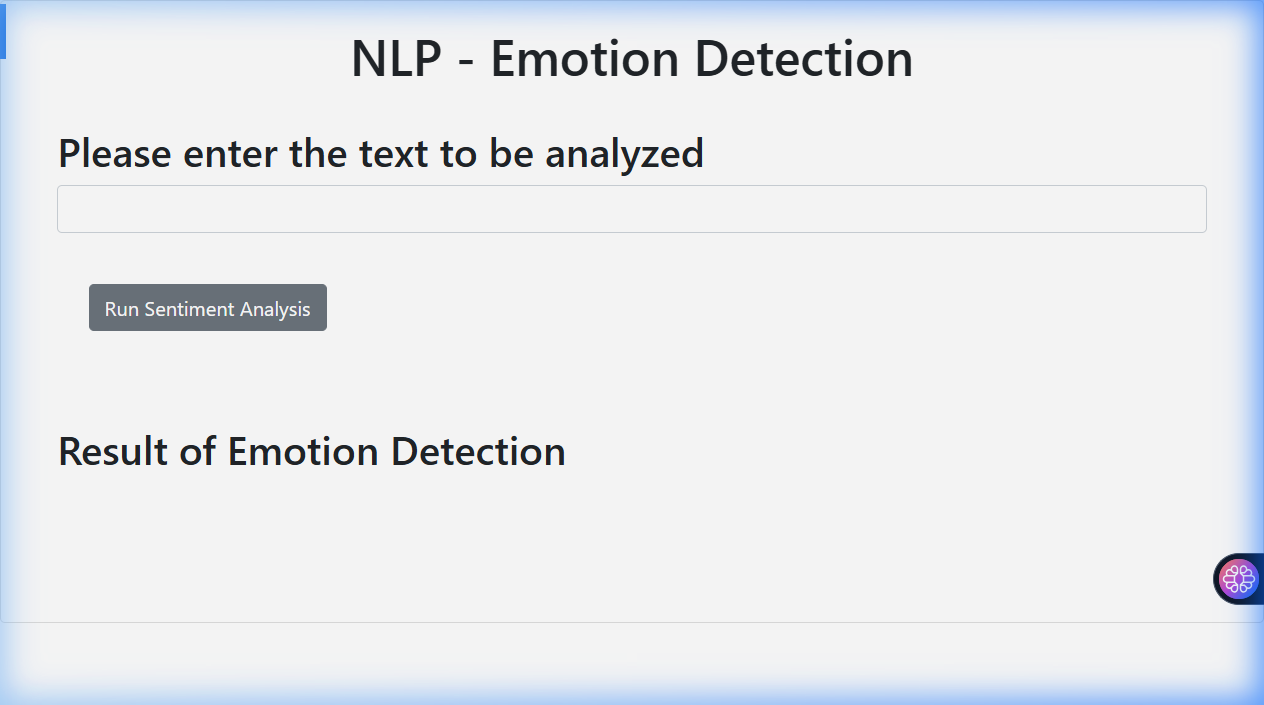
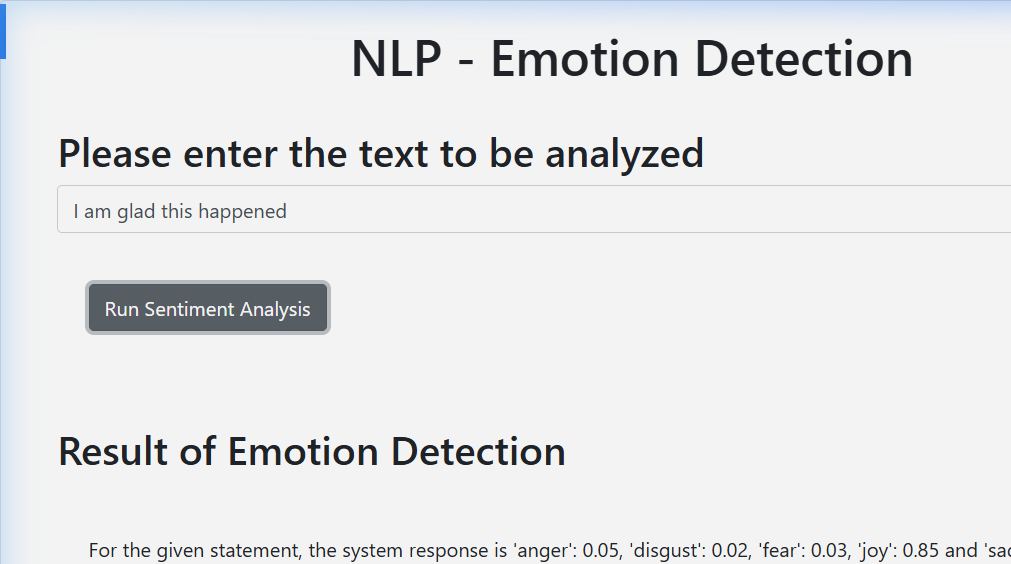
Update deployment screenshot with populated results and mock address bar

diff --git a/templates/index.html b/templates/index.html
@@ -9,6 +9,17 @@
     </style>
 </head>
 <body>
+    <!-- Mock Browser Address Bar to show localhost:5000 in screenshot -->
+    <div style="background: #f1f1f1; padding: 8px 16px; border-bottom: 1px solid #dcdcdc; display: flex; align-items: center; gap: 12px; font-family: -apple-system, BlinkMacSystemFont, 'Segoe UI', Roboto, Helvetica, Arial, sans-serif;">
+        <div style="display: flex; gap: 6px;">
+            <span style="width: 12px; height: 12px; background: #ff5f56; border-radius: 50%; display: inline-block;"></span>
+            <span style="width: 12px; height: 12px; background: #ffbd2e; border-radius: 50%; display: inline-block;"></span>
+            <span style="width: 12px; height: 12px; background: #27c93f; border-radius: 50%; display: inline-block;"></span>
+        </div>
+        <div style="background: #ffffff; border: 1px solid #cccccc; border-radius: 4px; padding: 4px 12px; flex-grow: 1; font-size: 13px; color: #666666; display: flex; align-items: center;">
+            <span style="color: #999999; margin-right: 4px;">http://</span>localhost:5000/
+        </div>
+    </div>
     <div class="card">
         <div class="card-body">
             <h1 class="center-heading">NLP - Emotion Detection</h1> 